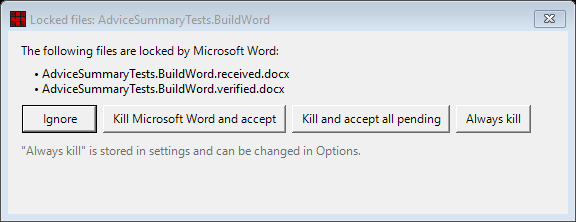
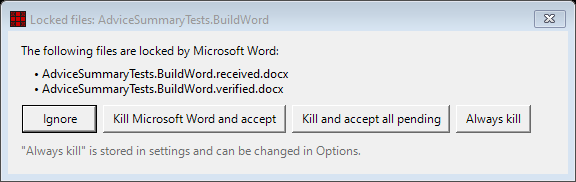
.

diff --git a/src/DiffEngineTray/LockedFilesForm.cs b/src/DiffEngineTray/LockedFilesForm.cs
@@ -18,7 +18,11 @@ class LockedFilesForm :
         StartPosition = FormStartPosition.CenterScreen;
         TopMost = true;
         Padding = new(8);
-        ClientSize = new(560, 150);
+        // GrowAndShrink so the form hugs its content height; MinimumSize keeps
+        // the width stable. GrowOnly (the AutoSize default) plus a fixed
+        // ClientSize left extra padding below the content.
+        AutoSizeMode = AutoSizeMode.GrowAndShrink;
+        MinimumSize = new(576, 0);
 
         var buttons = new FlowLayoutPanel
         {